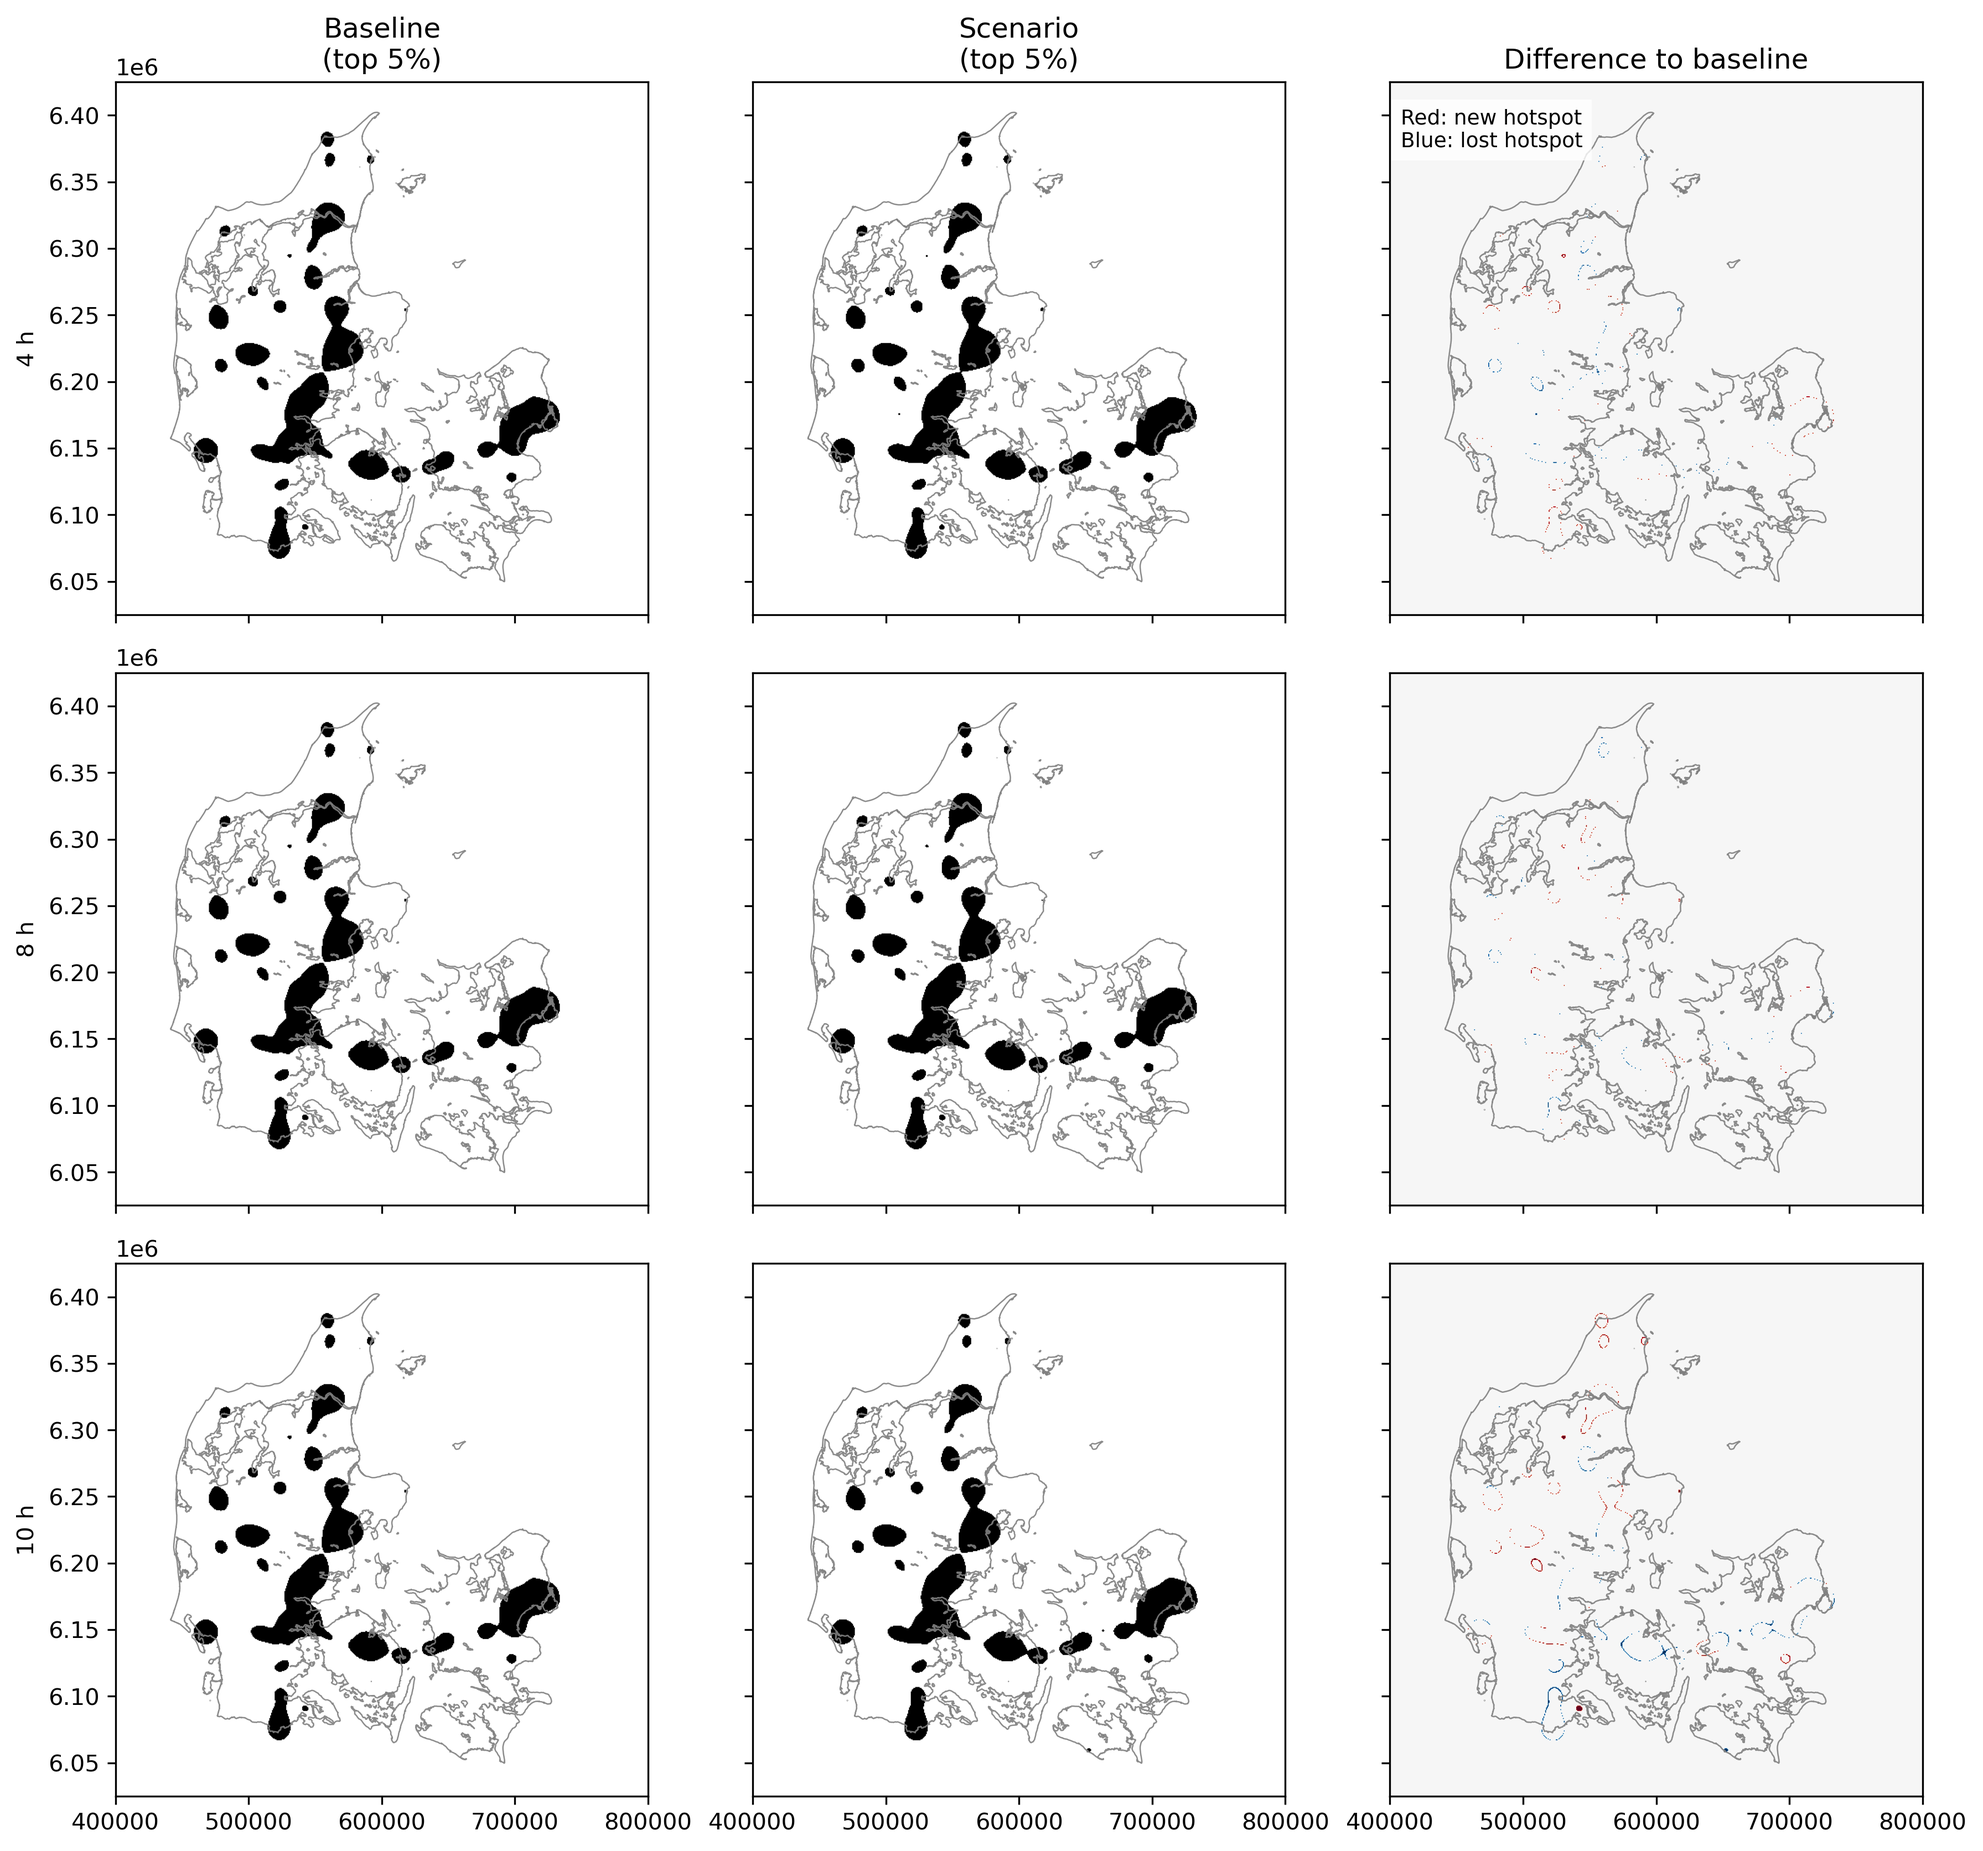
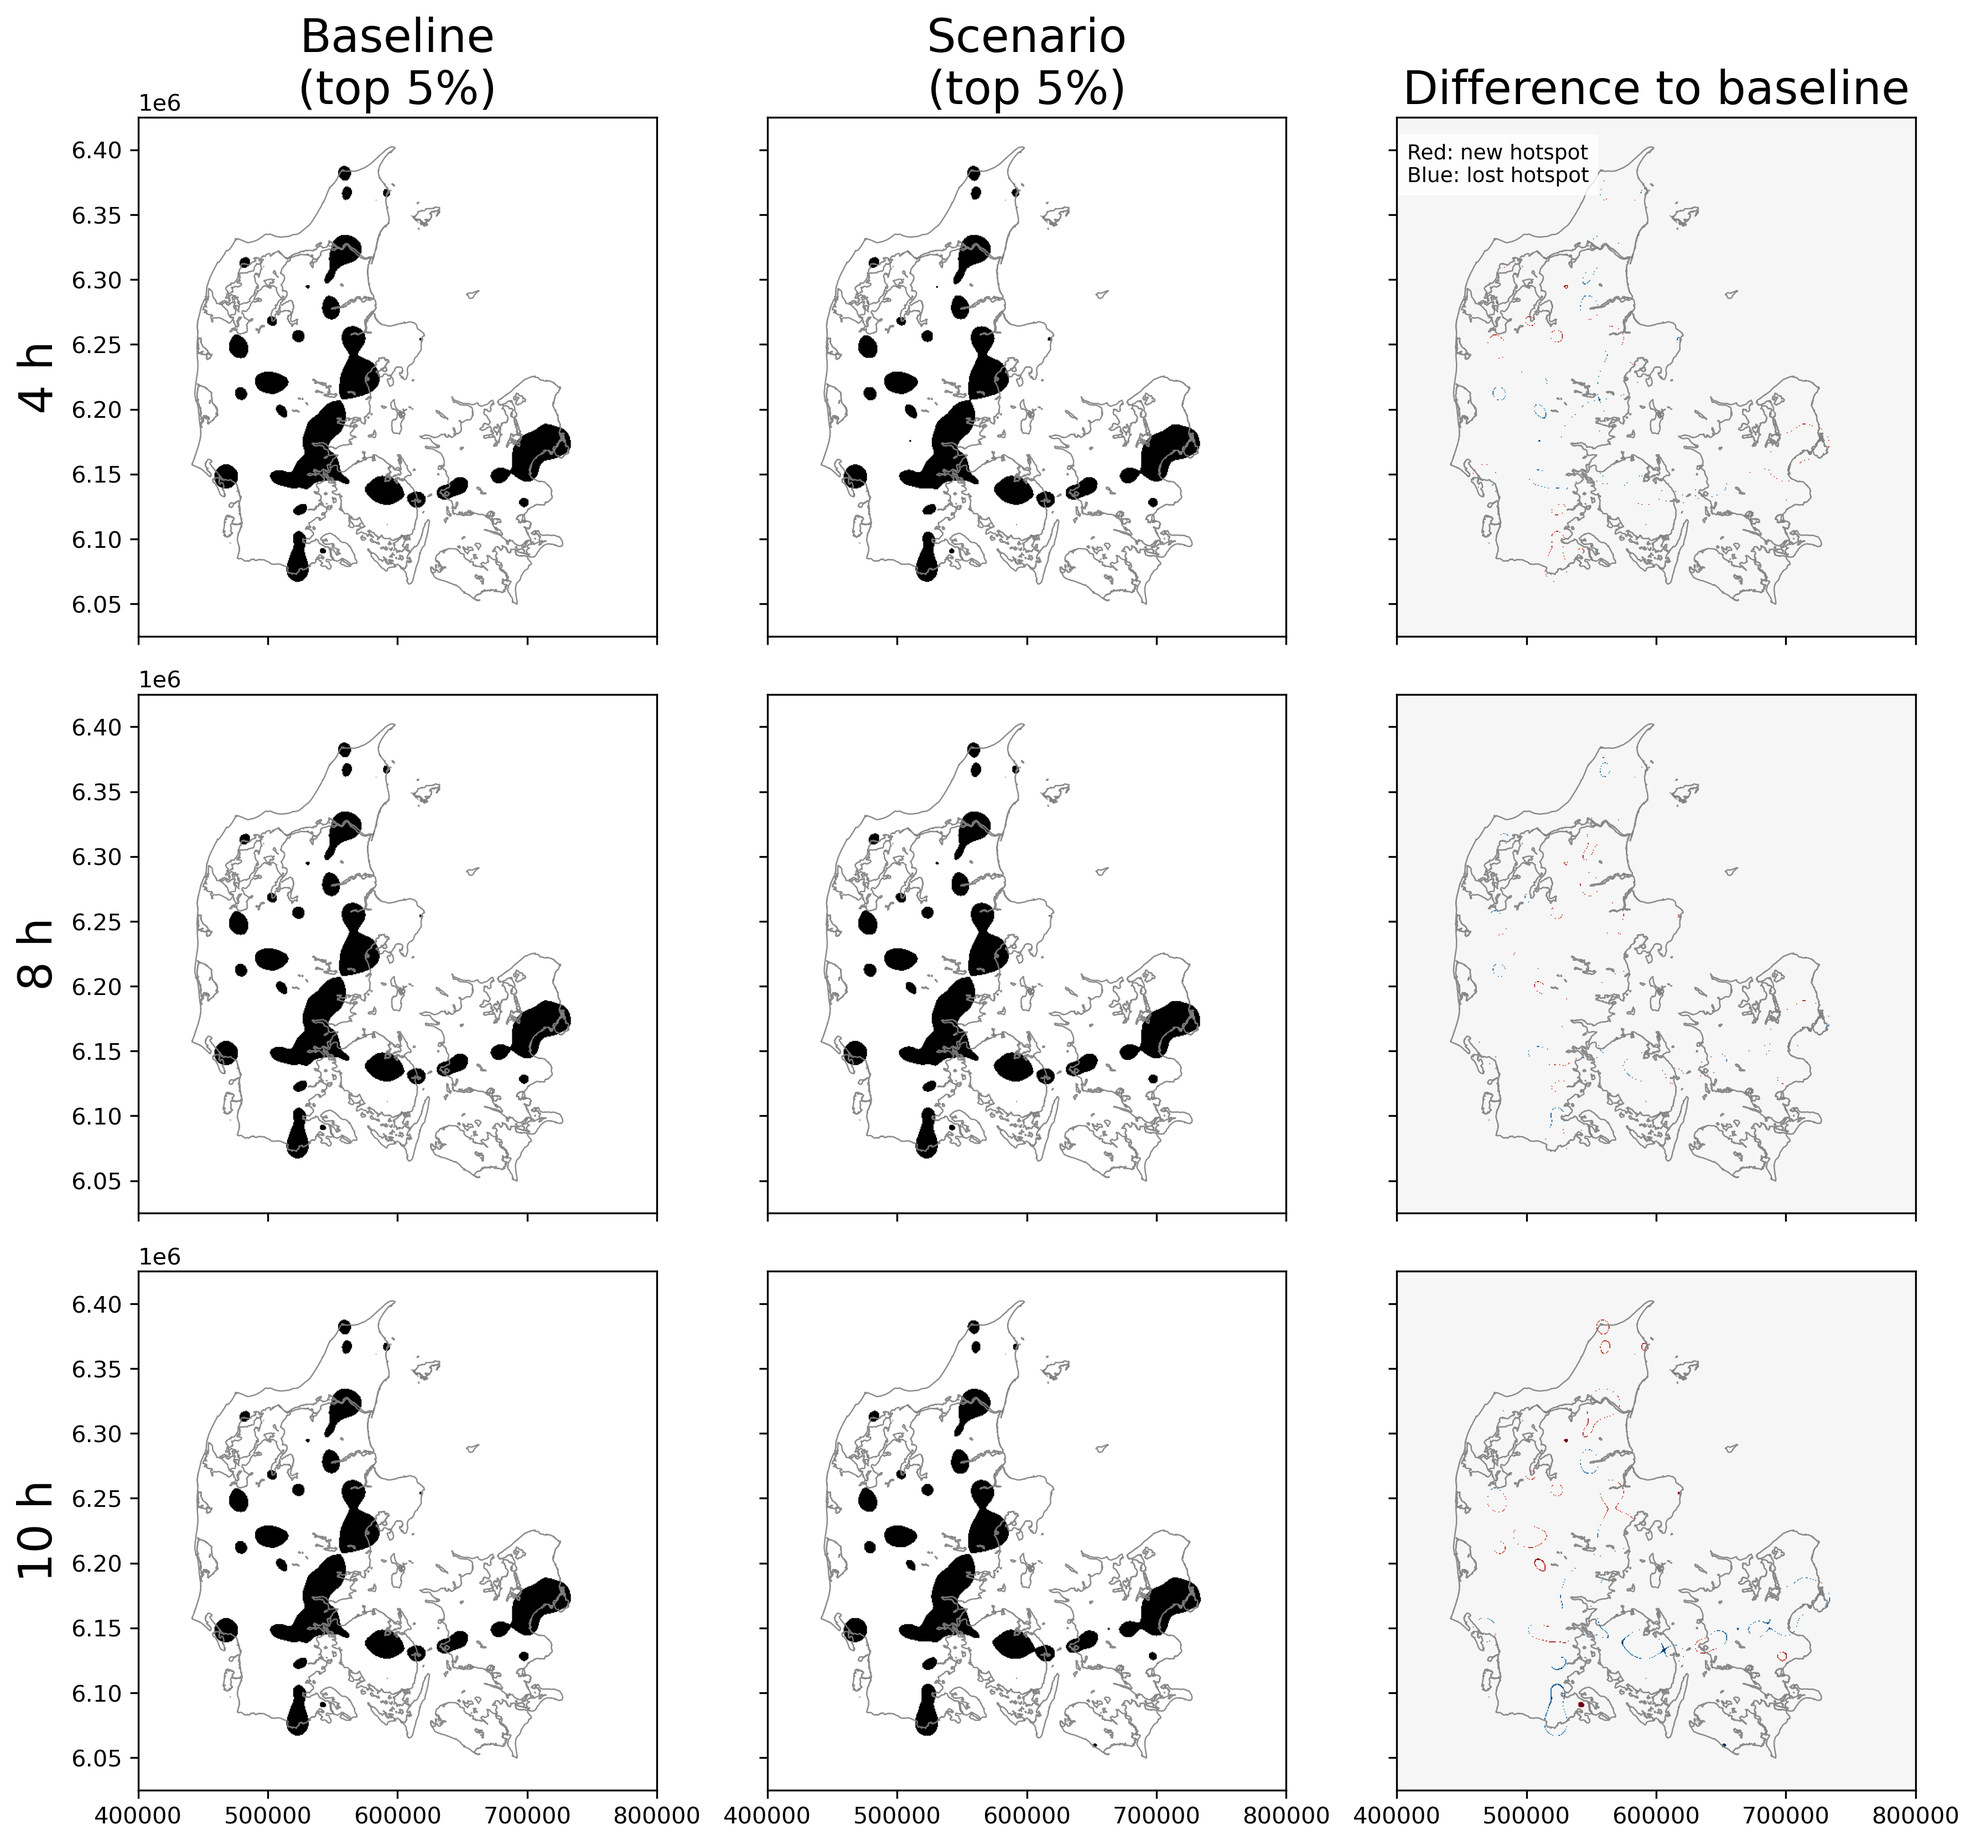
updated to lastest version of figures

diff --git a/scripts/cdf_plots.py b/scripts/cdf_plots.py
@@ -285,7 +285,7 @@ def plot_all_configs_side_by_side(all_results, fig_dir="../Results/Figures/"):
 
     # NEW: use constrained_layout
     fig, axes = plt.subplots(
-        1, 3, figsize=(10, 4), sharey=True
+        1, 3, figsize=(7, 3), sharey=True
     )
     plt.style.use("seaborn-v0_8")
 
@@ -333,7 +333,7 @@ def plot_all_configs_side_by_side(all_results, fig_dir="../Results/Figures/"):
     )
     """
     plt.tight_layout()
-    fig.subplots_adjust(bottom=0.2)
+    fig.subplots_adjust(bottom=0.3)
     out_path = fig_dir + "ALL_CONFIGS_side_by_side.png"
     fig.savefig(out_path, dpi=200)
     plt.show()
@@ -376,11 +376,11 @@ for cfg in CONFIGS:
     # -------------------------------------------------
     res = all_results[name]
     
-    plot_from_quantiles(res, var="trip_time_quantiles"      ,config=name)
-    plot_from_quantiles(res, var="trip_distance_quantiles"  ,config=name)
-    plot_from_quantiles(res, var="trip_count_quantiles"     ,config=name)
+    #plot_from_quantiles(res, var="trip_time_quantiles"      ,config=name)
+    #plot_from_quantiles(res, var="trip_distance_quantiles"  ,config=name)
+    #plot_from_quantiles(res, var="trip_count_quantiles"     ,config=name)
 
-plot_all_configs(all_results, var="trip_time_quantiles")
-plot_all_configs(all_results, var="trip_distance_quantiles")
-plot_all_configs(all_results, var="trip_count_quantiles")
+#plot_all_configs(all_results, var="trip_time_quantiles")
+#plot_all_configs(all_results, var="trip_distance_quantiles")
+#plot_all_configs(all_results, var="trip_count_quantiles")
 plot_all_configs_side_by_side(all_results)
